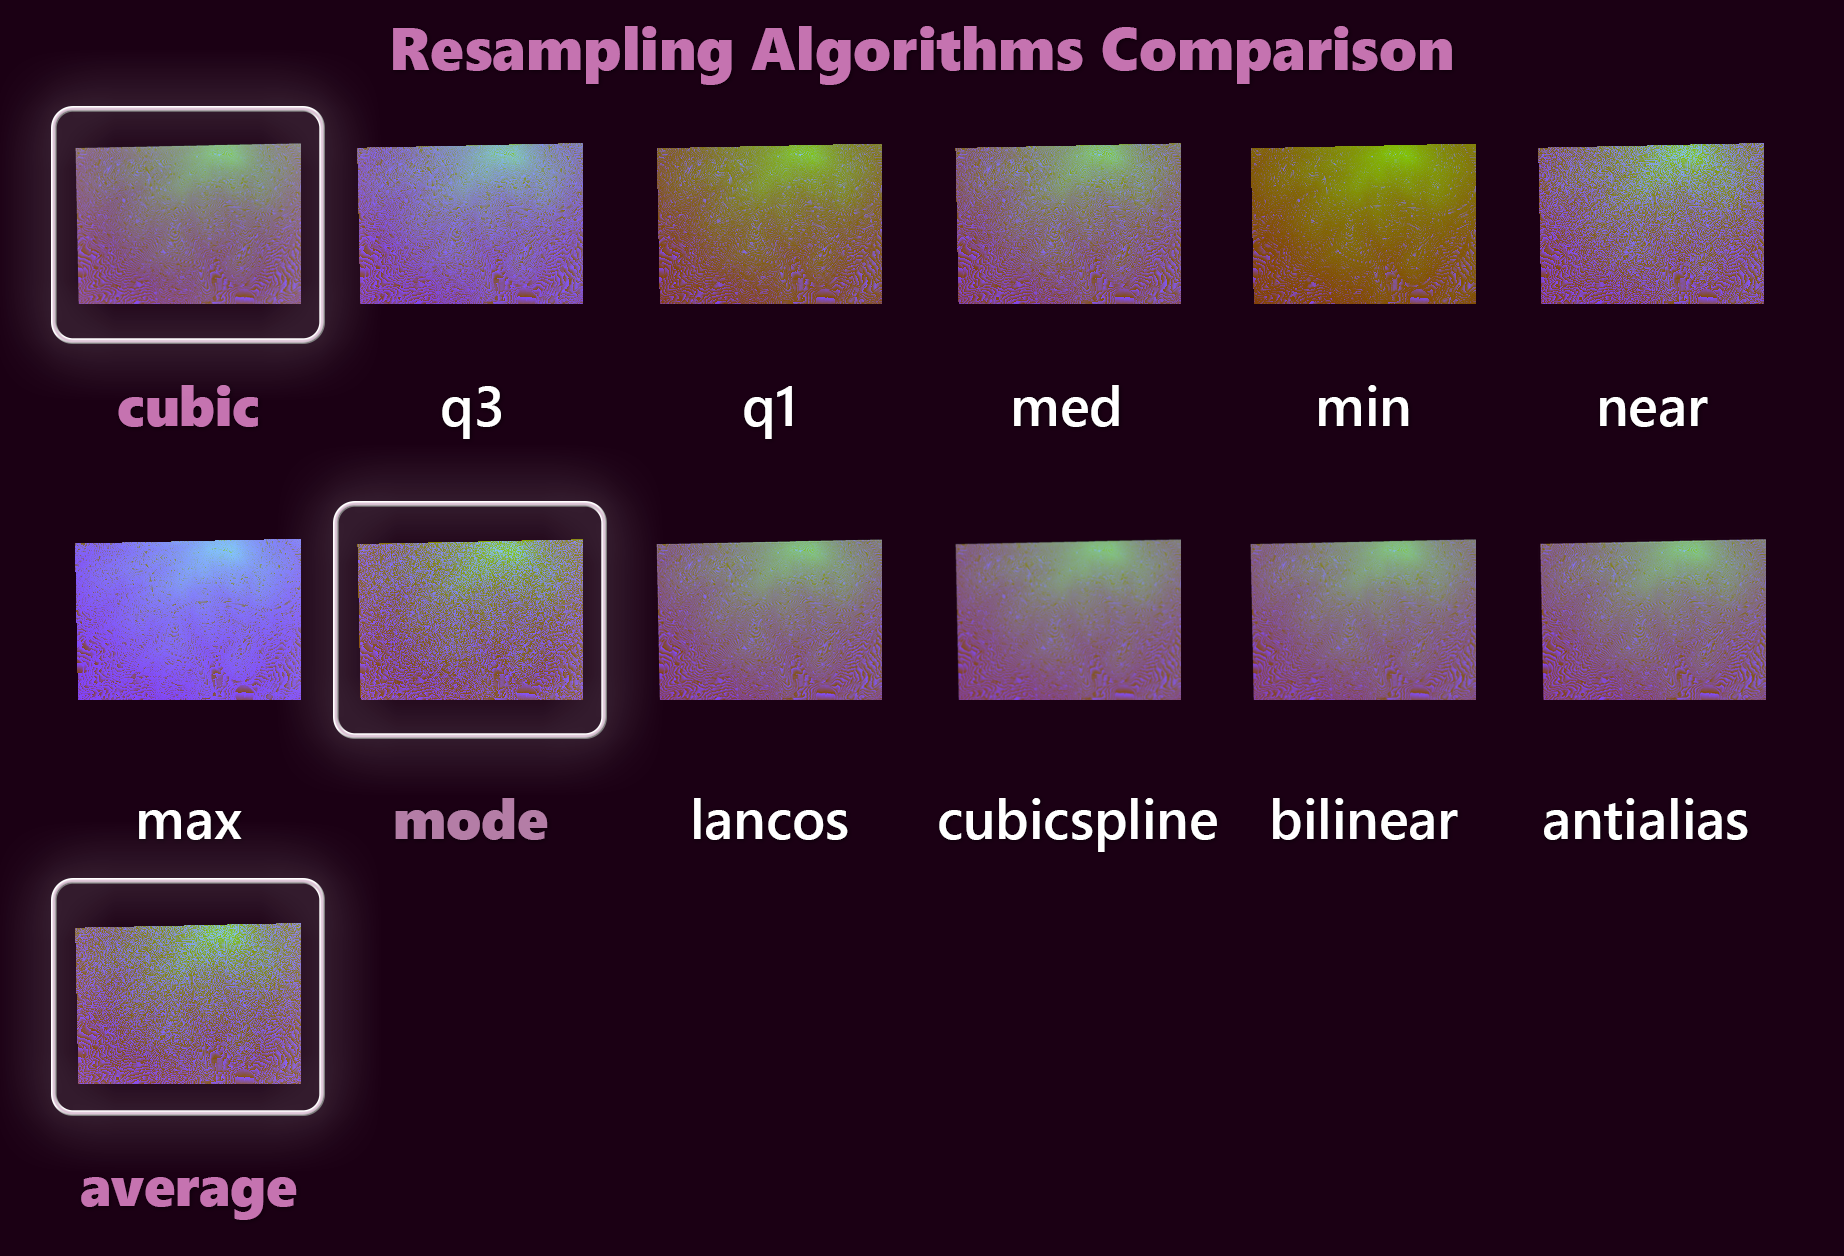
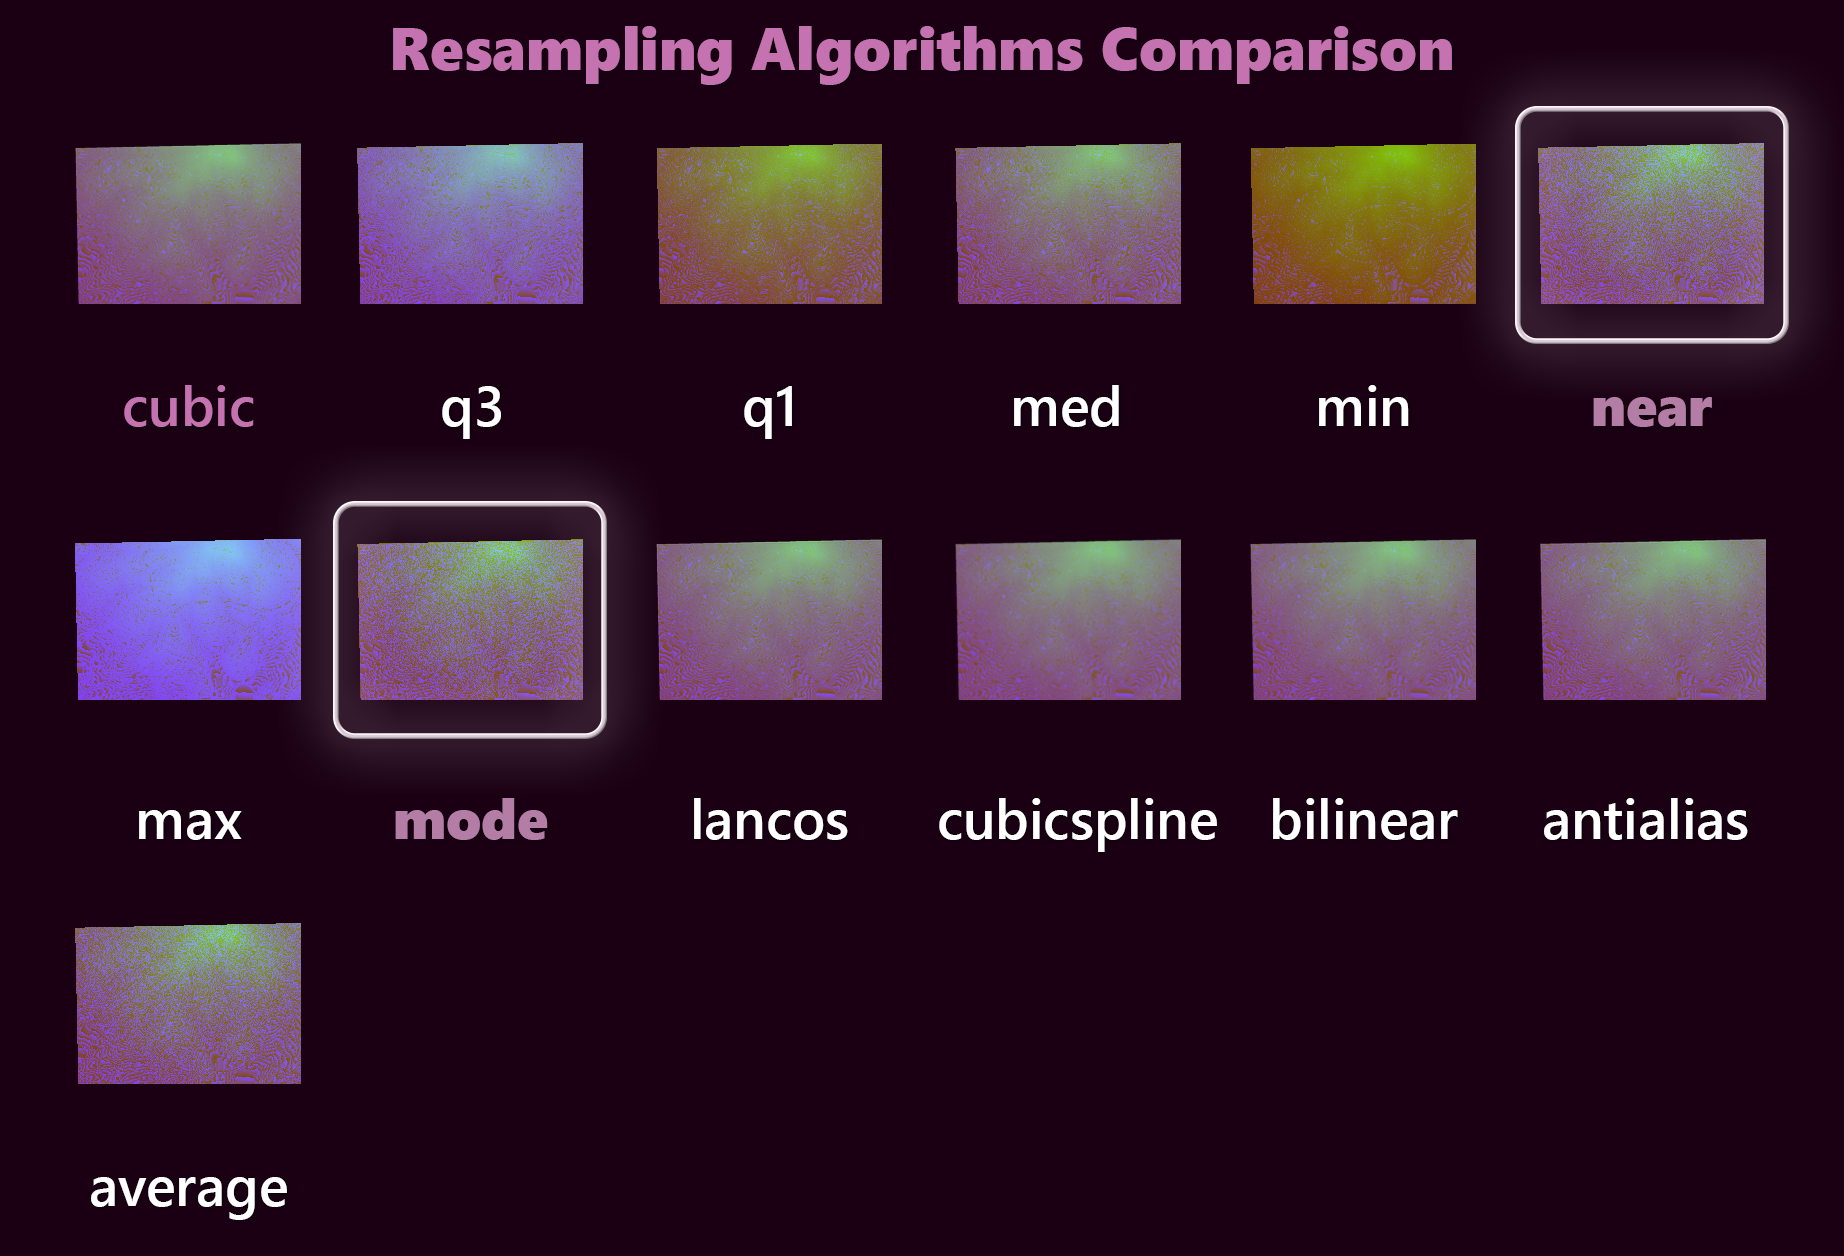
Fixed typos in create_dataset and switched to near algorithm to fix the edge bug

diff --git a/create_dataset.py b/create_dataset.py
@@ -38,7 +38,7 @@ source_folder = 'C:/Users/david/Documents/Minecraft/Source' # enter direcotry wh
 # enter directory where you want to save the generated files. If you are going to upload the dataset via ftp, you don't need to change this
 output_directory = 'C:/Users/david/Documents/Minecraft/Tiled'
 zoom = 15 # enter your zoom level
-resampling_algorithm = 'cubic' # use cubic or more for most accurate color. Look at the resampling algoritm's comparison image on the wiki for other algoritms
+resampling_algorithm = 'near' # use near for most accurate color. Look at the resampling algoritm's comparison image on the wiki for other algoritms
 manual_nodata_value = None #Leave at None, to use the defined NODATA value of the source file, or set it to value, if your source file doesn't have NODATA defined
 convert_feet_to_meters = False #Set to True, if your dataset heights are in feet
 
@@ -132,9 +132,9 @@ class ColorRamp:
     def __init__(self, altitude, cftm):
         v = None
         if cftm:
-            v = altitude * 0
-        else:
             v = altitude * 0.3048
+        else:
+            v = altitude
         v += 32768
         r = math.floor(v/256)
         g = math.floor(v % 256)
@@ -219,9 +219,7 @@ def genTiles(task):
         pds = gdal.Warp(vrt, pds, dstSRS="EPSG:3857")
         pds = None
 
-        QgsMessageLog.logMessage(
-                    'Created reporojected vrt'),
-                    CATEGORY, Qgis.Info)
+        QgsMessageLog.logMessage('Created reporojected vrt',CATEGORY, Qgis.Info)
 
         terrarium_tile =  os.path.join(source_folder, "TerrariumSource.vrt").replace("\\","/")
         if os.path.isfile(terrarium_tile):
@@ -251,21 +249,27 @@ def genTiles(task):
         minV = None
         maxV = None
 
-        for stat in statistics:
-            if stat.minV is not None and stat.maxV is not None:
-                if minV is None:
-                    minV = stat.minV
-                elif stat.minV < minV:
-                    minV = stat.minV
+        if len(statistics) > 1:
+            for stat in statistics:
+                if stat.minV is not None and stat.maxV is not None:
+                    if minV is None:
+                        minV = stat.minV
+                    elif stat.minV < minV:
+                        minV = stat.minV
 
-                if maxV is None:
-                    maxV = stat.maxV
-                elif stat.maxV > maxV:
-                    maxV = stat.maxV
+                    if maxV is None:
+                        maxV = stat.maxV
+                    elif stat.maxV > maxV:
+                        maxV = stat.maxV
+        else:
+            minV = statistics[0].minV
+            maxV = statistics[0].maxV
 
         if minV is None or maxV is None:
             QgsMessageLog.logMessage('Error: Minimum and maximum height are None',CATEGORY, Qgis.Info)
             return None
+        else:
+            QgsMessageLog.logMessage('Minimum and maximum height are {mn} and {ma}'.format(mn=minV,ma=maxV),CATEGORY, Qgis.Info)
 
         statistics = None
 
@@ -595,7 +599,7 @@ def getBands(src_ds):
         bandsCount = src_ds.RasterCount
     return bandsCount
 
-def createRamp(altitude, cftm):
+def createRamp(cftm, altitude):
         return ColorRamp(altitude, cftm)
 
 def calculateStat(tile):

diff --git a/create_dataset_vsizip.py b/create_dataset_vsizip.py
@@ -38,7 +38,7 @@ source_file = 'C:/Users/david/Documents/Minecraft/Source/Source.zip' # enter pat
 # enter directory where you want to save the generated files. If you are going to upload the dataset via ftp, you don't need to change this
 output_directory = 'C:/Users/david/Documents/Minecraft/Tiled'
 zoom = 12 # enter your zoom level
-resampling_algorithm = 'cubic' # use cubic or more for most accurate color. Look at the resampling algoritm's comparison image on the wiki for other algoritms
+resampling_algorithm = 'near' # use near for most accurate color. Look at the resampling algoritm's comparison image on the wiki for other algoritms
 manual_nodata_value = 0 #Leave at None, to use the defined NODATA value of the source file, or set it to value, if your source file doesn't have NODATA defined
 convert_feet_to_meters = True #Set to True, if your dataset heights are in feet
 
